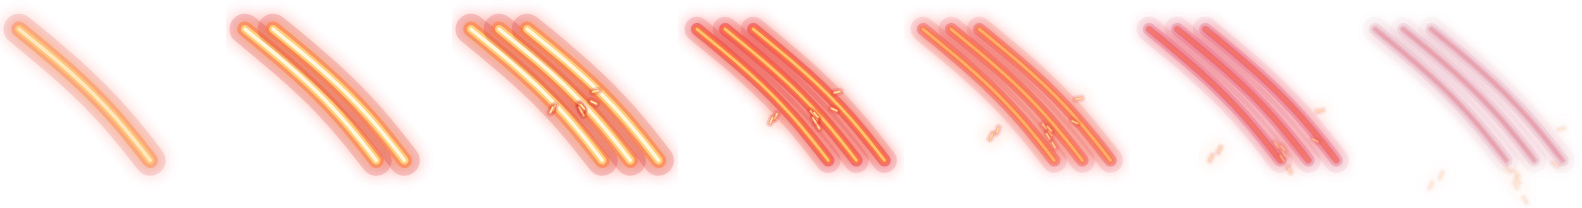
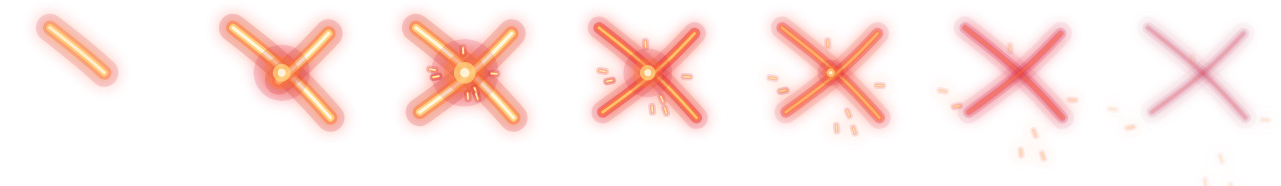
Berserker: a fiery cross for his hit, cracked ground, a flame badge; whole-number heals
His hit was three claw rakes that piled into a mess of red lines on every blow; it's now
one fiery cut crossing another with a flare and sparks. Torn ground is jagged glowing
cracks instead of claw gashes, and his emblem is a flame on a shield badge (the lone
flame read as a drop of blood). Bloodlust heals in whole HP (it showed numbers like
+94.99155200000001).

diff --git a/tools/fx-art.js b/tools/fx-art.js
@@ -1451,7 +1451,10 @@
     }
   });
   E.embrage = emblem(PAL.rage, (ctx, pal) => {
-    tongue(ctx, pal, 0, 44, 40, 110, 10);
+    badge(ctx, pal, [[-46, -52], [46, -52], [46, 8], [0, 58], [-46, 8]]);
+    tongue(ctx, PAL.fire, -14, 26, 13, 48, -6);
+    tongue(ctx, PAL.fire, 14, 26, 13, 48, 6);
+    tongue(ctx, PAL.fire, 0, 30, 18, 70, 2);
   });
 
   // ---------- The Ranger's wind ----------
@@ -3209,64 +3212,61 @@
       }
     },
   };
-  // Torn ground: three claw gashes molten deep inside, their lips charred black, embers rising out,
-  // cooling to glowing seams.
+  // Torn ground: the earth cracks open where the blow lands, jagged cracks running out both ways
+  // glowing with fire inside, a flare at the heart and sparks rising, cooling to dull seams.
   E.gash = {
     w: 300, h: 150, n: 8, fps: 20, px: 150, py: 110,
     draw(ctx, i) {
       const heat = [1, 1, 0.95, 0.85, 0.7, 0.5, 0.3, 0.15][i];
-      const open = [0.4, 1, 1, 0.95, 0.85, 0.7, 0.5, 0.35][i];
-      const tears = [-1, 0, 1].map((j) => ({ x: 150 + j * 30, y: 110 + j * 17, len: 190 - Math.abs(j) * 36 }));
-      painted(ctx, 0, 40, 300, 110, (x, y) => {
-        let best = 0;
-        for (const t of tears) {
-          const u = (x - (t.x - t.len / 2)) / t.len;
-          if (u < 0 || u > 1) continue;
-          const cy = t.y + (u - 0.5) * t.len * 0.16;
-          const w = Math.pow(Math.sin(Math.PI * u), 0.8) * 9 * open * (0.75 + 0.5 * fbm(x / 12, t.x, 2));
-          best = Math.max(best, 1 - Math.abs(y - cy) / Math.max(0.5, w));
-        }
-        if (best <= 0) return [0, 0];
-        return [best < 0.35 ? 0.02 : ((best - 0.35) / 0.65) * heat * (0.85 + 0.3 * fbm(x / 9, y / 9 + i, 2)) * 1.2, sstep(0, 0.2, best)];
-      }, fireRamp);
-      const R = rng(730);
-      for (let j = 0; j < 10; j++) {
-        const t = tears[j % 3];
-        const u = 0.2 + R() * 0.6;
+      const run = Math.min(1, 0.35 + i * 0.3);
+      const L = cooled(1 - heat);
+      for (const [dx, dy, seed] of [[-1, 0.08, 11], [1, -0.05, 12], [-0.7, -0.22, 13], [0.75, 0.2, 14]]) {
+        const x1 = 150 + dx * 130 * run;
+        const y1 = 110 + dy * 130 * run * 0.35;
+        glow(ctx, zig(150, 110, x1, y1, 7, 7, seed), 2.6 * heat + 0.6, L, heat);
+      }
+      if (i <= 3) bloomDisc(ctx, 150, 110, [24, 40, 34, 22][i], [9, 14, 12, 8][i], FLAME, 0.9);
+      const R = rng(731);
+      for (let j = 0; j < 9; j++) {
         const life = Math.min(1, (i + R() * 2) / 8);
-        const x = t.x - t.len / 2 + t.len * u;
-        const y = t.y + (u - 0.5) * t.len * 0.16 - life * 70;
-        glow(ctx, [[x, y], [x, y - 6]], 1.3 * (1 - life) + 0.3, FLAME, (1 - life) * heat * 1.2);
+        const x = 60 + R() * 180;
+        const y = 110 - life * 70;
+        glow(ctx, [[x, y], [x, y - 6]], 1.2 * (1 - life) + 0.3, FLAME, (1 - life) * heat * 1.1);
       }
     },
   };
-  // His claw hit: three red-hot rakes torn across the monster, white-hot at their heart, cooling
-  // from yellow to deep red as they fade, sparks flying off.
+
+  // His hit: a fiery cut crossing a second, white-hot where they meet, a flare of flame there and
+  // sparks flying off, cooling from gold to red as they fade.
   E.claw = {
     w: 200, h: 200, n: 7, fps: 26, px: 100, py: 100,
     draw(ctx, i) {
-      const a = [0.7, 1, 1, 0.85, 0.6, 0.35, 0.15][i];
+      const a = [0.8, 1, 1, 0.85, 0.6, 0.35, 0.15][i];
       const L = cooled(i / 7);
-      for (let j = 0; j < Math.min(3, i + 1); j++) {
+      const cut = (x0, y0, x1, y1, grow) => {
         const pts = [];
-        for (let k = 0; k <= 12; k++) {
-          const t = k / 12;
-          pts.push([100 + (j - 1) * 30 - 70 + 140 * t + Math.sin(t * Math.PI) * 10, 30 + 140 * t]);
+        for (let k = 0; k <= 10; k++) {
+          const t = (k / 10) * grow;
+          pts.push([x0 + (x1 - x0) * t + Math.sin(t * Math.PI) * 6, y0 + (y1 - y0) * t]);
         }
-        glow(ctx, pts, i < 3 ? 5.5 : 4.4, L, a);
-      }
+        glow(ctx, pts, i < 3 ? 5 : 4, L, a);
+      };
+      cut(48, 52, 152, 148, Math.min(1, 0.5 + i * 0.5));
+      if (i >= 1) cut(150, 58, 52, 142, Math.min(1, i * 0.6));
+      if (i >= 1 && i <= 4) bloomDisc(ctx, 100, 100, [0, 30, 36, 26, 14][i], [0, 30, 36, 26, 14][i], FLAME, 0.9);
       if (i >= 2) {
-        const R = rng(740);
-        for (let j = 0; j < 9; j++) {
-          const ang = -0.3 + R() * 2.4;
-          const d = 20 + (i - 1) * 16 * (0.6 + R() * 0.8);
+        const R = rng(741);
+        for (let j = 0; j < 8; j++) {
+          const ang = R() * TAU;
+          const d = 24 + (i - 1) * 14 * (0.6 + R() * 0.8);
           const x = 100 + Math.cos(ang) * d;
-          const y = 100 + Math.sin(ang) * d * 0.6 + (i - 2) ** 2 * 3;
-          glow(ctx, [[x, y], [x - Math.cos(ang) * 6, y - Math.sin(ang) * 6]], 1.4, FLAME, a);
+          const y = 100 + Math.sin(ang) * d * 0.7 + (i - 2) ** 2 * 3;
+          glow(ctx, [[x, y], [x - Math.cos(ang) * 6, y - Math.sin(ang) * 6]], 1.3, FLAME, a);
         }
       }
     },
   };
+
   // Embers climbing on a hot wind (his power, in place of a pillar): sparks of fire flicking side
   // to side, cooling from white-hot to red as they rise. Loops.
   E.embers = {

diff --git a/src/render/fx-sheets.js b/src/render/fx-sheets.js
@@ -16,7 +16,7 @@ export const FX_SHEETS = {
   celhit: { w: 204, h: 203, n: 6, fps: 30, px: 101, py: 104, d: 3, loop: false },
   celhitred: { w: 163, h: 175, n: 6, fps: 30, px: 83, py: 74, d: 3, loop: false },
   celcross: { w: 204, h: 194, n: 6, fps: 30, px: 113, py: 81, d: 3, loop: false },
-  celclaw: { w: 226, h: 208, n: 7, fps: 26, px: 113, py: 95, d: 3, loop: false },
+  celclaw: { w: 183, h: 186, n: 7, fps: 26, px: 99, py: 73, d: 3, loop: false },
   celholyhit: { w: 245, h: 245, n: 7, fps: 24, px: 122, py: 122, d: 3, loop: false },
   celcrit: { w: 265, h: 259, n: 6, fps: 26, px: 133, py: 130, d: 3, loop: false },
   celpillar: { w: 159, h: 334, n: 8, fps: 20, px: 79, py: 303, d: 3, loop: false },
@@ -49,7 +49,7 @@ export const FX_SHEETS = {
   celdemonglow: { w: 148, h: 165, n: 4, fps: 8, px: 74, py: 141, d: 3, loop: true },
   celholyglow: { w: 148, h: 161, n: 4, fps: 8, px: 74, py: 137, d: 3, loop: true },
   celragecracks: { w: 237, h: 89, n: 4, fps: 8, px: 132, py: 45, d: 3, loop: true },
-  celgash: { w: 224, h: 132, n: 8, fps: 20, px: 111, py: 86, d: 3, loop: false },
+  celgash: { w: 285, h: 101, n: 8, fps: 20, px: 143, py: 68, d: 3, loop: false },
   celembers: { w: 114, h: 231, n: 8, fps: 14, px: 58, py: 205, d: 3, loop: true },
   celshockred: { w: 274, h: 274, n: 6, fps: 24, px: 137, py: 137, d: 3, loop: false },
   celshield: { w: 235, h: 227, n: 7, fps: 20, px: 117, py: 104, d: 3, loop: false },
@@ -76,7 +76,7 @@ export const FX_SHEETS = {
   celchargered: { w: 201, h: 200, n: 6, fps: 18, px: 100, py: 101, d: 3, loop: true },
   celembholy: { w: 128, h: 155, n: 5, fps: 12, px: 64, py: 82, d: 3, loop: false },
   celembsteel: { w: 134, h: 151, n: 5, fps: 12, px: 67, py: 82, d: 3, loop: false },
-  celembrage: { w: 126, h: 176, n: 5, fps: 12, px: 63, py: 82, d: 3, loop: false },
+  celembrage: { w: 126, h: 153, n: 5, fps: 12, px: 63, py: 82, d: 3, loop: false },
   celwindspin: { w: 175, h: 175, n: 6, fps: 18, px: 88, py: 88, d: 3, loop: true },
   celleaves: { w: 266, h: 113, n: 7, fps: 16, px: 69, py: 64, d: 3, loop: false },
   celwindhit: { w: 195, h: 161, n: 6, fps: 24, px: 103, py: 74, d: 3, loop: false },

diff --git a/src/world/combat.js b/src/world/combat.js
@@ -219,7 +219,8 @@ export function drinkBlood(world, dmg) {
   // (No more than `cap` of max HP a second, so a whole crowd can't make him unkillable.)
   if (world.now - (world.drinkSec?.at ?? -9) >= 1) world.drinkSec = { at: world.now, n: 0 };
   const room = Math.max(0, stats.maxHp * (p.cap ?? 1) * more - world.drinkSec.n);
-  const heal = Math.min(stats.maxHp - char.hp, room, Math.max(1, Math.round(dmg * p.steal * more)));
+  // (Whole HP only: a share of a share can come out fractional.)
+  const heal = Math.floor(Math.min(stats.maxHp - char.hp, room, Math.max(1, Math.round(dmg * p.steal * more))));
   if (heal <= 0) return 0;
   world.drinkSec.n += heal;
   char.hp += heal;

diff --git a/src/render/warrior-fx.js b/src/render/warrior-fx.js
@@ -262,7 +262,7 @@ export function drawWarriorFx(ctx, f, x, y, p, cam, time) {
       return true;
     }
     case 'ragehit': {
-      // A Berserker's blow: claw marks torn across the target, drops flying on the heavy ones.
+      // A Berserker's blow: a fiery cut across the target, sparks flying on the heavy ones.
       const cy = y - (f.h ?? 24) / 2;
       hitMark(ctx, 'rage', x, cy, p, { big: f.big, seed, dir });
       if (f.big) fxSprite(ctx, 'celblood', x + dir * 6, cy, { p, scale: 0.8, flip });

diff --git a/tests/melee.test.js b/tests/melee.test.js
@@ -653,6 +653,7 @@ test('Bloodlust: blows heal the Berserker, more the lower his HP', () => {
   const high = healed(0.9);
   const low = healed(0.1);
   assert.ok(high > 0, 'a blow heals a little');
+  assert.ok(Number.isInteger(high) && Number.isInteger(low), `whole HP only (${high}, ${low})`);
   assert.ok(low > high * 1.3, `much more when low (${high} vs ${low})`);
 });
 
